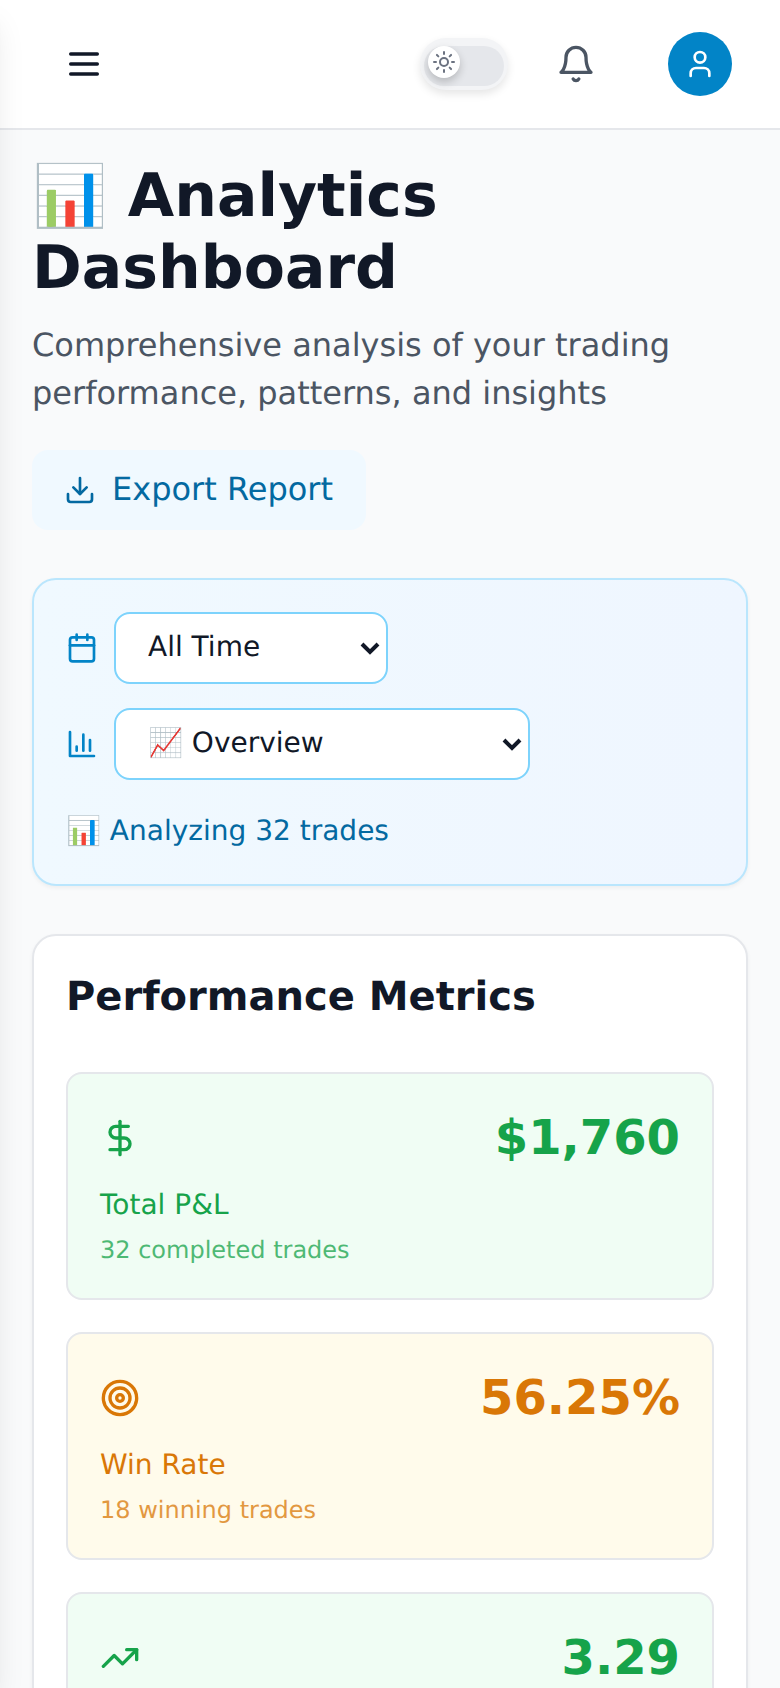
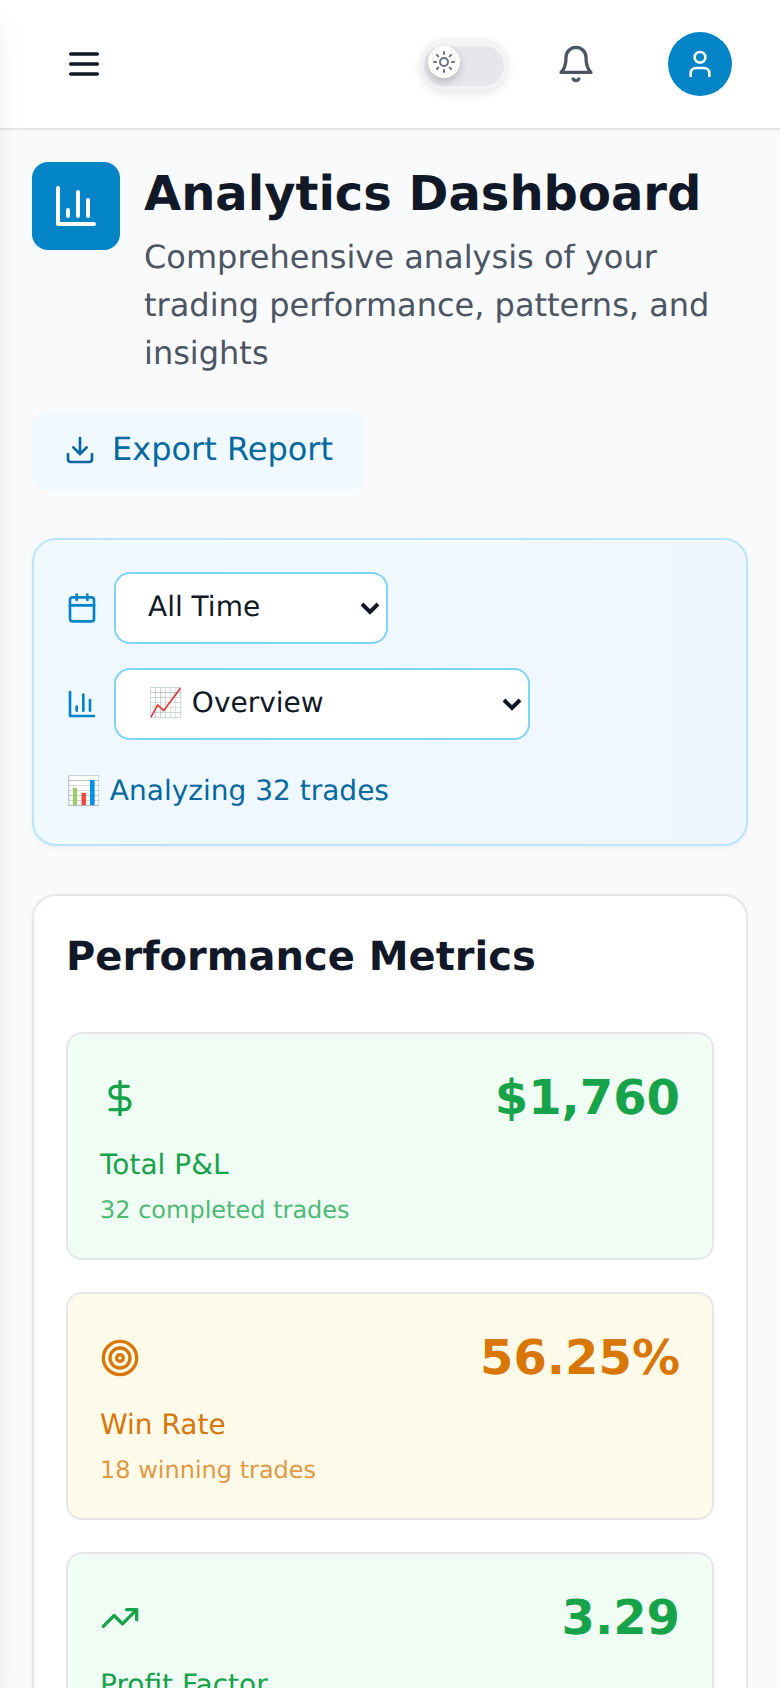
Polish Analytics Dashboard header to match Trade Calendar style
The Analytics header used a raw emoji and an oversized text-3xl title that
wrapped awkwardly on phones. Reworked it to mirror the Trade Calendar
header's clean icon+title treatment:
- Replaced the bare emoji with a lucide BarChart3 icon in a primary-600
  badge (same accent color as the calendar header bar)
- Responsive title (text-2xl on phones, text-3xl on larger screens)
- Icon aligns to the title via items-start so it sits beside the heading,
  not the subtitle

Claude-Session: https://claude.ai/code/session_01UYuCZqGvagf5qi1PGwsV5P

diff --git a/src/pages/Analytics.jsx b/src/pages/Analytics.jsx
@@ -61,17 +61,22 @@ const Analytics = () => {
   return (
     <div className="space-y-6">
       {/* Header */}
-      <div className="flex flex-col sm:flex-row sm:items-center sm:justify-between">
-        <div>
-          <h1 className="text-3xl font-bold text-gray-900 dark:text-gray-100 flex items-center gap-3">
-            📊 Analytics Dashboard
-          </h1>
-          <p className="text-gray-600 dark:text-gray-400 mt-2">
-            Comprehensive analysis of your trading performance, patterns, and insights
-          </p>
+      <div className="flex flex-col sm:flex-row sm:items-center sm:justify-between gap-4">
+        <div className="flex items-start gap-3">
+          <div className="flex items-center justify-center w-11 h-11 rounded-lg bg-primary-600 dark:bg-primary-700 text-white flex-shrink-0">
+            <BarChart3 className="w-6 h-6" />
+          </div>
+          <div>
+            <h1 className="text-2xl sm:text-3xl font-bold text-gray-900 dark:text-gray-100">
+              Analytics Dashboard
+            </h1>
+            <p className="text-gray-600 dark:text-gray-400 mt-1">
+              Comprehensive analysis of your trading performance, patterns, and insights
+            </p>
+          </div>
         </div>
 
-        <div className="mt-4 sm:mt-0 flex items-center space-x-3">
+        <div className="flex items-center">
           <button
             onClick={handleExportReport}
             className="btn btn-secondary flex items-center space-x-2 bg-primary-50 dark:bg-primary-900/20 text-primary-700 dark:text-primary-300 border-primary-200 dark:border-primary-800 hover:bg-primary-100 dark:hover:bg-primary-900/30"